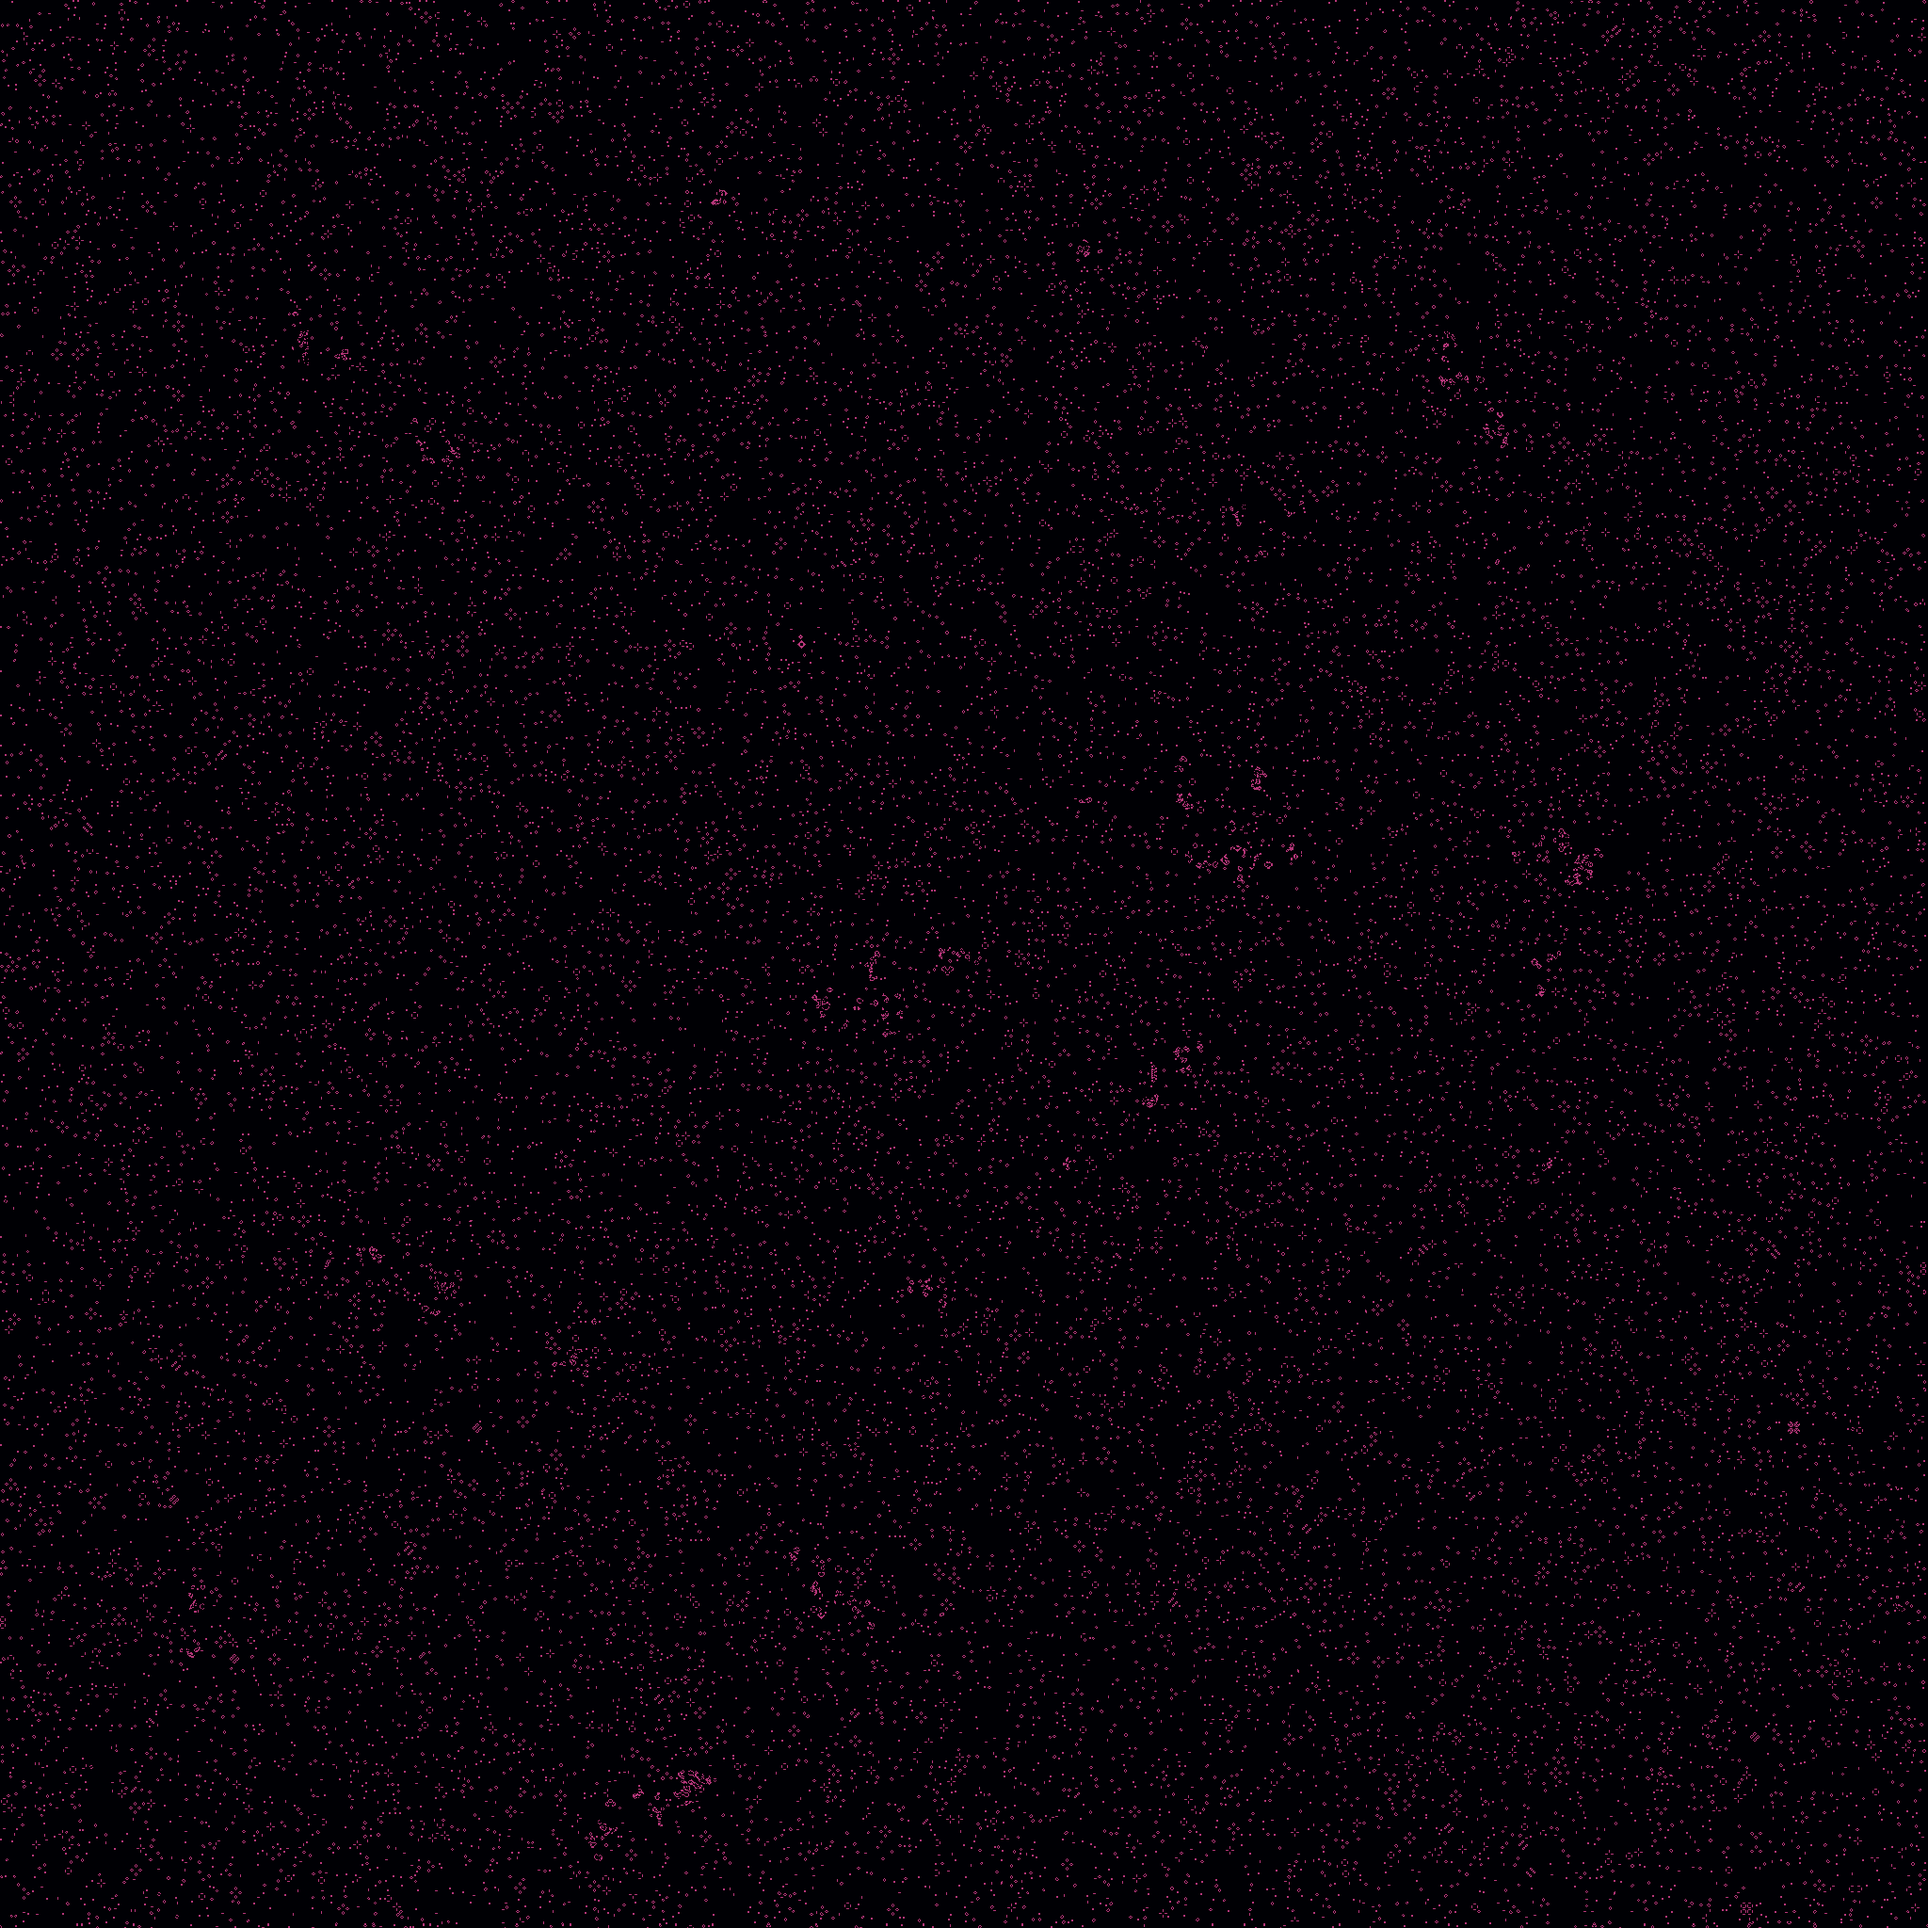
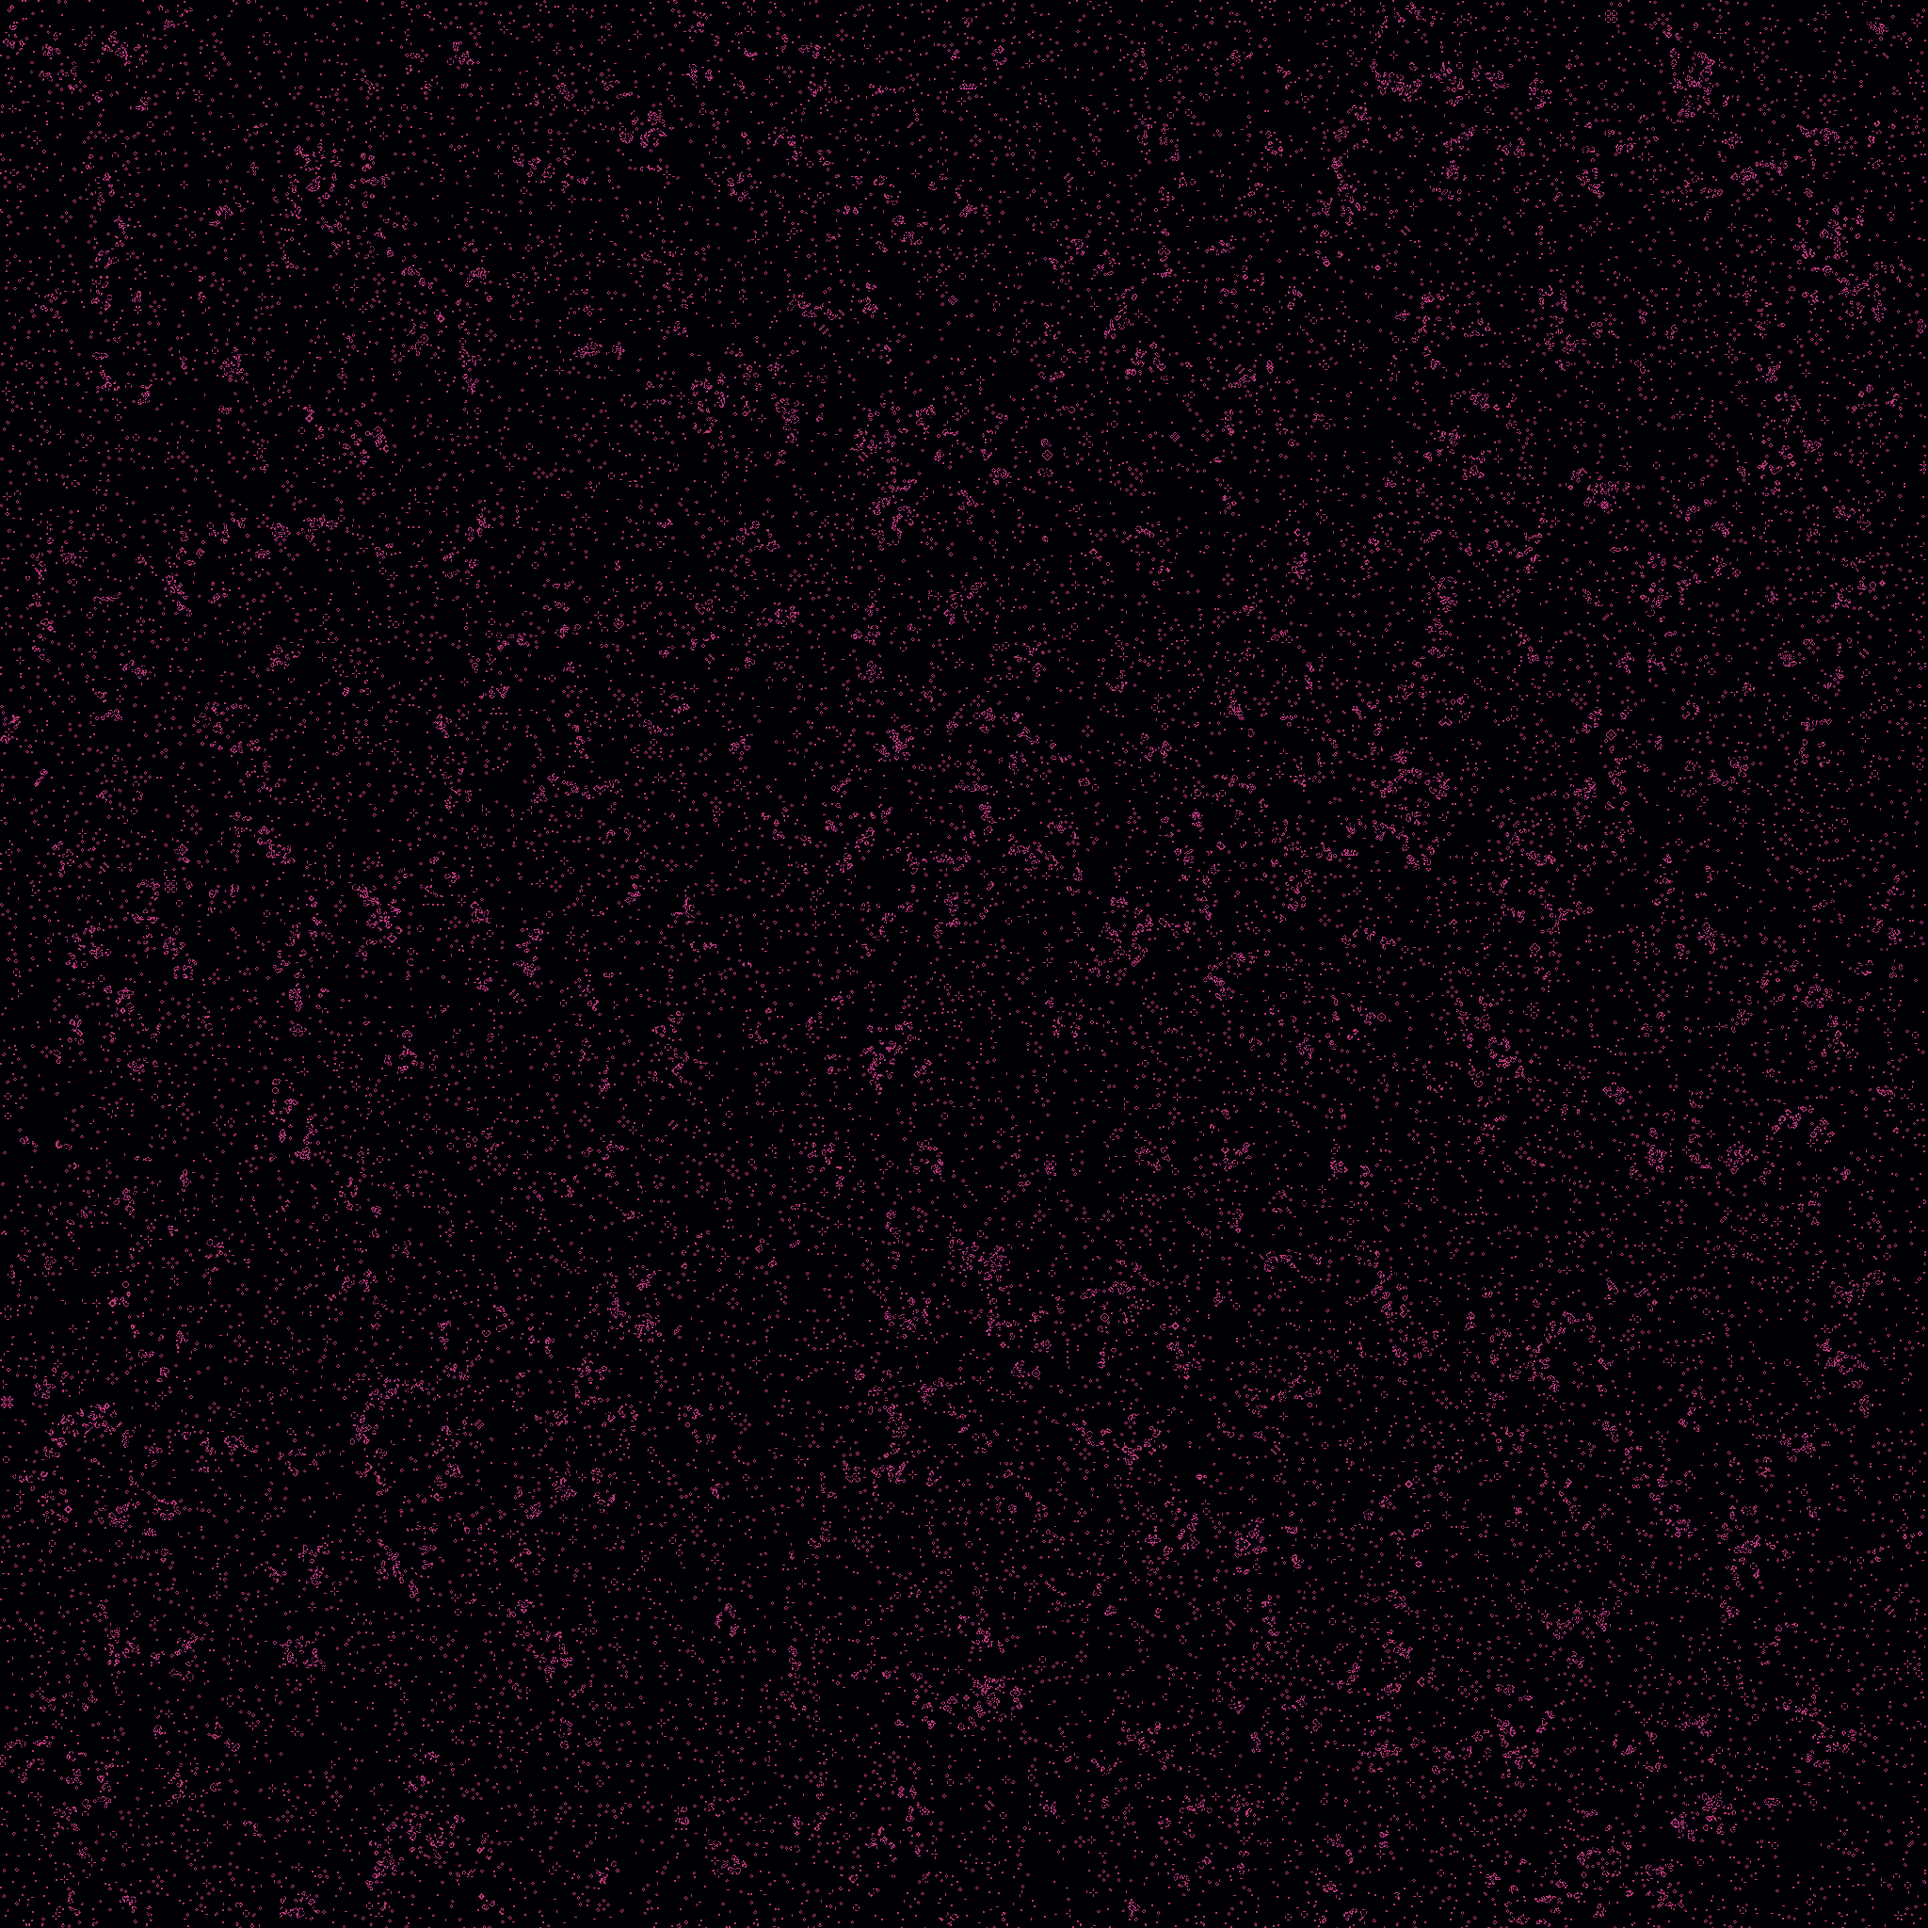
refactor: Update constants and loop iterations in main.rs and convolution.wgsl
- Update the value of constant W in main.rs from 512 to 2048.
- Update the loop iterations in main.rs from 0..10 to 0..1000.
- Update the data type of the 'data' field in the Neighbourhood struct in convolution.wgsl from array<f32> to array<vec2<i32>>.
- Update the field names in the Params struct in convolution.wgsl: 'kernel_size' is now 'image_height' and 'neighbour_dimension' is now 'neighbour_count'.
- Update the variable names in the main function in convolution.wgsl: 'kernel' is now 'neighbors' and 'total_neighbours' is now 'params.neighbour_count'.
- Update the calculation of the sum of neighbors in the main function in convolution.wgsl to use the new 'neighbors' data structure.
- Update the conditionals in the main function in convolution.wgsl to use the new 'sum_neighbours' variable.
- Update the example values in the 'neighbors_example' vector in wgpu.rs to use the new format of [i32; 2] instead of f32.
- Update the size of the 'params' array in wgpu.rs to include the new 'image_height' and 'neighbour_count' fields.
- Update the buffer binding in wgpu.rs to use the new 'neighbors_buffer' instead of 'kernel_buffer'.

diff --git a/src/third/wgpu.rs b/src/third/wgpu.rs
@@ -14,19 +14,26 @@ pub async fn run(device: &GpuDevice, image: &Image, kernel: &Kernel) -> Image {
         height: image.height - crop,
     };
 
-    let neighbors_example: Vec<f32> = vec![
-        -1.0, -1.0, -1.0, 0.0, -1.0, 1.0, 0.0, -1.0, 0.0, 1.0, 1.0, -1.0, 1.0, 0.0, 1.0, 1.0,
+    let neighbors_example: Vec<[i32; 2]> = vec![
+        [-1, -1],
+        [-1, 0],
+        [-1, 1],
+        [0, -1],
+        [0, 1],
+        [1, -1],
+        [1, 0],
+        [1, 1],
     ];
 
     let output_size = (output.size() * std::mem::size_of::<Real>() as u32) as u64;
-    let params = [image.width, kernel.size, 2];
+    let params = [image.width, image.height, 8];
     let params_data = bytemuck::cast_slice(&params);
 
     // create input and output buffers
     let input_buffer = device.create_data_buffer("input", bytemuck::cast_slice(&image.data));
     let result_buffer = device.create_buffer("result", output_size);
-    let kernel_buffer =
-        device.create_data_buffer("kernel", bytemuck::cast_slice(&neighbors_example));
+    let neighbors_buffer =
+        device.create_data_buffer("neighbors", bytemuck::cast_slice(&neighbors_example));
     let params_buffer = device.create_uniform_buffer("params", params_data);
     let output_buffer = device.create_output_buffer("output", output_size);
 
@@ -44,8 +51,8 @@ pub async fn run(device: &GpuDevice, image: &Image, kernel: &Kernel) -> Image {
                 wgpu::BufferBindingType::Storage { read_only: false },
             ),
             (
-                &kernel_buffer,
-                4,
+                &neighbors_buffer,
+                8,
                 wgpu::BufferBindingType::Storage { read_only: false },
             ),
             (

diff --git a/src/main.rs b/src/main.rs
@@ -14,7 +14,7 @@ use rayon::iter::{IntoParallelRefIterator, ParallelIterator};
 
 #[tokio::main]
 async fn main() {
-    const W: u32 = 512;
+    const W: u32 = 2048;
     const H: u32 = W;
 
     const STATES: u32 = 2;
@@ -27,7 +27,7 @@ async fn main() {
 
     let mut system = DynamicalSystem::new(Box::new(space), Box::new(dynamic));
 
-    for _ in tqdm!(0..10) {
+    for _ in tqdm!(0..1000) {
         system.compute_sync_wgpu(&device);
     }
 
@@ -35,7 +35,7 @@ async fn main() {
         .space_state()
         .par_iter()
         .map(|x| x.state() as u8)
-        .collect::<Vec<u8>>(); //.map(|x| x.state() as u32);
+        .collect::<Vec<u8>>();
 
     let mut img = RgbImage::new(W, H);
 
